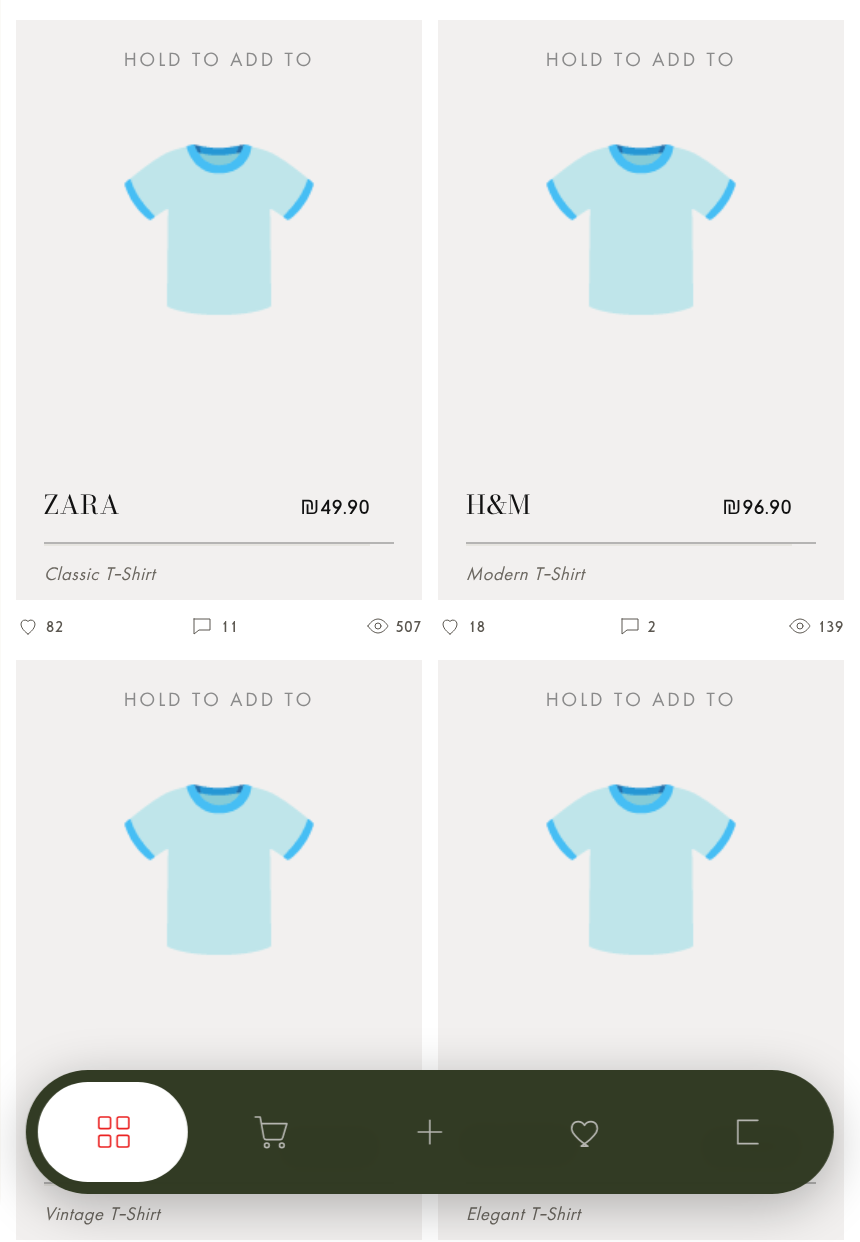
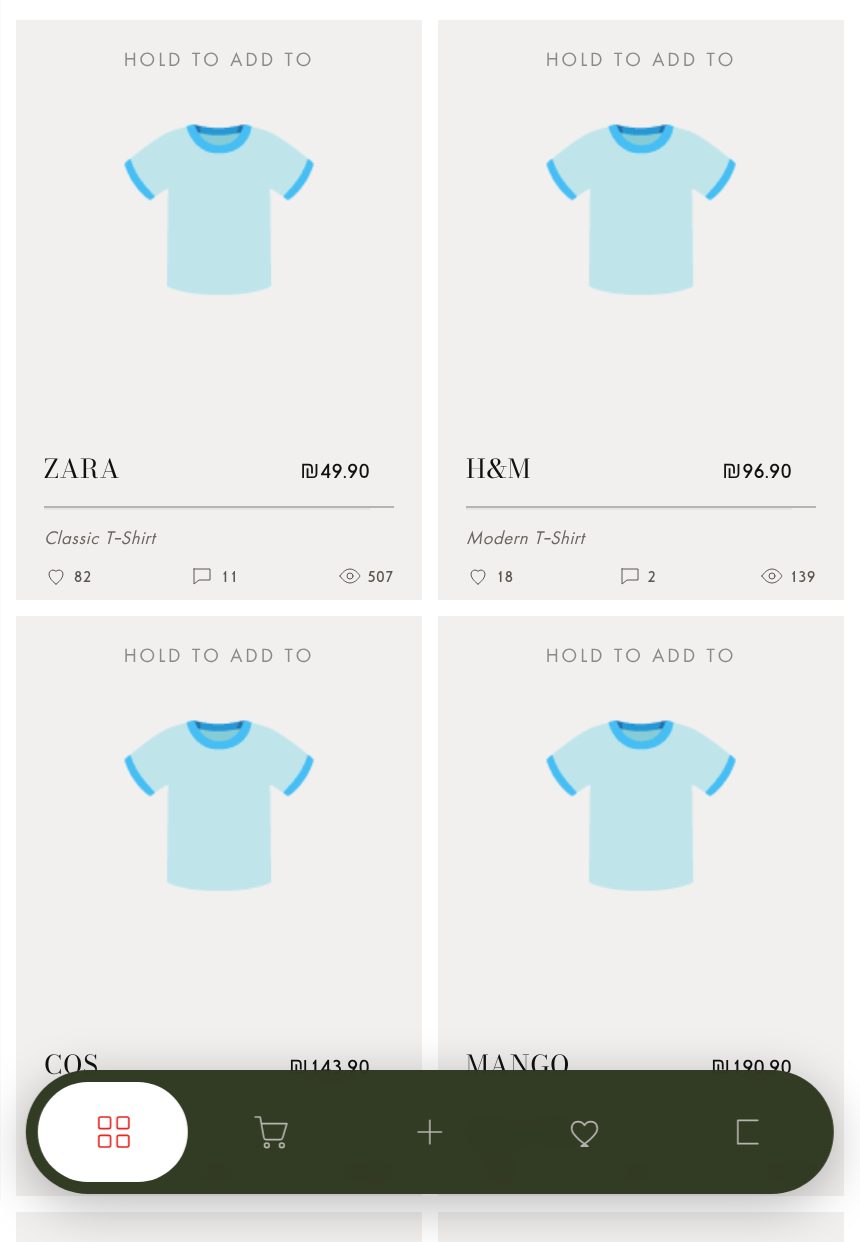
Product cards: stats row back inside the card, spread across the copy width
Claude-Session: https://claude.ai/code/session_011eJFT5j73mRgnWhpcGvqfp

diff --git a/pc-social.js b/pc-social.js
@@ -77,21 +77,18 @@
     // The row's own styles travel with the script: if a browser holds an older
     // product-card.css, the row still renders right (never as bare black icons).
     //
-    // The row sits OUTSIDE the card, under it (option 2, "spread"): it hangs
-    // from the copy block (top: 100%) across the card's full width, its three
-    // marks flush with the card's two edges. The card stops clipping so the row
-    // can show below it, and keeps a bottom margin so the grid leaves room.
+    // The row sits inside the card, on the copy template's fourth row under the
+    // name, "spread": the three marks run across the copy's width, the first
+    // and last flush with the two ends of the hairline rule. The piece's field
+    // gives up one row of height for it.
     var CSS = [
-        '.product-card:has(.pc-stats),',
-        '.product-card:has(.pc-stats) .pc-flip,',
-        '.product-card:has(.pc-stats) .pc-face { overflow: visible !important; }',
-        '.product-card:has(.pc-stats) { margin-bottom: 22px; }',
+        '.product-card { --pc-stats-h: 20px; }',
+        '.product-card:has(.pc-stats) .product-image {',
+        '    inset: 0 0 calc(var(--foot-h) + var(--pc-stats-h)) 0;',
+        '}',
         '.product-card .product-info .pc-stats {',
-        '    position: absolute;',
-        '    top: 100%;',
-        '    left: 0;',
-        '    right: 0;',
-        '    margin: 7px 0 0;',
+        '    grid-area: 4 / 1 / 5 / -1;',
+        '    margin: 6px 0 0;',
         '    padding: 0;',
         '    display: flex;',
         '    justify-content: space-between;',

diff --git a/seller-dashboard.html b/seller-dashboard.html
@@ -471,7 +471,7 @@ h3, h4, h5, h6, p,
 <style id="aharoni-headings">h1:not(#zz):not(#zz):not(#zz),h2:not(#zz):not(#zz):not(#zz),h3:not(#zz):not(#zz):not(#zz),h4:not(#zz):not(#zz):not(#zz),h5:not(#zz):not(#zz):not(#zz),h6:not(#zz):not(#zz):not(#zz),[class*="title"]:not(#zz):not(#zz):not(#zz),[class*="Title"]:not(#zz):not(#zz):not(#zz),[class*="heading"]:not(#zz):not(#zz):not(#zz),[class*="Heading"]:not(#zz):not(#zz):not(#zz),[class*="headline"]:not(#zz):not(#zz):not(#zz),[class*="Headline"]:not(#zz):not(#zz):not(#zz){font-family:'Aharoni CLM','Segoe UI',sans-serif !important;}</style>
 <style id="scal-bodoni">.scal-month:not(#zz):not(#zz):not(#zz),.scal-day:not(#zz):not(#zz):not(#zz),.scd-val:not(#zz):not(#zz):not(#zz){font-family:'Bodoni Moda','Didot',Georgia,serif !important;text-transform:none !important;}</style>
 <link rel="stylesheet" href="product-card.css?v=2">
-<script src="pc-social.js?v=3"></script>
+<script src="pc-social.js?v=4"></script>
     <link rel="stylesheet" href="assets/page-header.css?v=20261003e">
     <script src="assets/page-header.js?v=20261011e"></script>
     <!-- Every time-series graph: one edge-to-edge line chart (assets/line-chart.*). -->

diff --git a/cart-store.html b/cart-store.html
@@ -9,7 +9,7 @@
     <link href="https://fonts.googleapis.com/css2?family=Bodoni+Moda:opsz,wght@6..96,400;6..96,500;6..96,600;6..96,700&family=Poppins:wght@200;300;400;500;600&family=Oswald:wght@300;400;500;700&display=swap" rel="stylesheet">
     <!-- The product card, shared by every page (single source: product-card.css). -->
     <link rel="stylesheet" href="product-card.css?v=2">
-    <script src="pc-social.js?v=3"></script>
+    <script src="pc-social.js?v=4"></script>
     <link rel="stylesheet" href="assets/fonts/aharoni.css">
     <!-- Page styles, shared by cart-store / cart / wishlist (single source: list-page.css). -->
     <link rel="stylesheet" href="list-page.css?v=20261005u">

diff --git a/cart.html b/cart.html
@@ -9,7 +9,7 @@
     <link href="https://fonts.googleapis.com/css2?family=Bodoni+Moda:opsz,wght@6..96,400;6..96,500;6..96,600;6..96,700&family=Poppins:wght@200;300;400;500;600&family=Oswald:wght@300;400;500;700&display=swap" rel="stylesheet">
     <!-- The product card, shared by every page (single source: product-card.css). -->
     <link rel="stylesheet" href="product-card.css?v=2">
-    <script src="pc-social.js?v=3"></script>
+    <script src="pc-social.js?v=4"></script>
     <link rel="stylesheet" href="assets/fonts/aharoni.css">
     <!-- Page styles, shared by cart-store / cart / wishlist (single source: list-page.css). -->
     <link rel="stylesheet" href="list-page.css?v=20261005u">

diff --git a/wishlist.html b/wishlist.html
@@ -9,7 +9,7 @@
     <link href="https://fonts.googleapis.com/css2?family=Bodoni+Moda:opsz,wght@6..96,400;6..96,500;6..96,600;6..96,700&family=Poppins:wght@200;300;400;500;600&family=Oswald:wght@300;400;500;700&display=swap" rel="stylesheet">
     <!-- The product card, shared by every page (single source: product-card.css). -->
     <link rel="stylesheet" href="product-card.css?v=2">
-    <script src="pc-social.js?v=3"></script>
+    <script src="pc-social.js?v=4"></script>
     <link rel="stylesheet" href="assets/fonts/aharoni.css">
     <!-- Page styles, shared by cart-store / cart / wishlist (single source: list-page.css). -->
     <link rel="stylesheet" href="list-page.css?v=20261005u">

diff --git a/my-products.html b/my-products.html
@@ -18,7 +18,7 @@
     <link href="https://fonts.googleapis.com/css2?family=Bodoni+Moda:opsz,wght@6..96,400;6..96,500;6..96,600;6..96,700&family=Poppins:wght@200;300;400;500;600&family=Oswald:wght@300;400;500&display=swap" rel="stylesheet">
     <!-- The shared product card — the same object the home feed uses. -->
     <link rel="stylesheet" href="product-card.css?v=2">
-    <script src="pc-social.js?v=3"></script>
+    <script src="pc-social.js?v=4"></script>
     <link rel="stylesheet" href="assets/fonts/aharoni.css">
     <style>
         * { margin: 0; padding: 0; box-sizing: border-box; }

diff --git a/index.html b/index.html
@@ -6771,7 +6771,7 @@
     <script src="photo-guide.js"></script>
     <!-- The product card, shared by every page (single source: product-card.css). -->
     <link rel="stylesheet" href="product-card.css?v=2">
-    <script src="pc-social.js?v=3"></script>
+    <script src="pc-social.js?v=4"></script>
     <!-- ==================== HOME FEED — FIGMA LAYOUT ====================
          The home feed's sections (built into index.html's markup and filled by
          renderVeroFeatures): five featured picks, a full-width hero band, a

diff --git a/collection.html b/collection.html
@@ -54,7 +54,7 @@
         .sale-slider > .product-card { flex: 0 0 clamp(200px, 62vw, 250px); scroll-snap-align: start; }
     </style>
     <link rel="stylesheet" href="product-card.css?v=2">
-    <script src="pc-social.js?v=3"></script>
+    <script src="pc-social.js?v=4"></script>
     <link rel="stylesheet" href="feed-card.css">
     <link rel="stylesheet" href="assets/fonts/aharoni.css">
     <script src="assets/back-button.js"></script>

diff --git a/interiors.html b/interiors.html
@@ -460,7 +460,7 @@
     </style>
     <!-- The product card, shared by every page (single source: product-card.css). -->
     <link rel="stylesheet" href="product-card.css?v=2">
-    <script src="pc-social.js?v=3"></script>
+    <script src="pc-social.js?v=4"></script>
     <link rel="stylesheet" href="feed-card.css">
     <link rel="stylesheet" href="assets/fonts/aharoni.css">
     <script src="assets/back-button.js"></script>

diff --git a/sales.html b/sales.html
@@ -459,7 +459,7 @@
     </style>
     <!-- The product card, shared by every page (single source: product-card.css). -->
     <link rel="stylesheet" href="product-card.css?v=2">
-    <script src="pc-social.js?v=3"></script>
+    <script src="pc-social.js?v=4"></script>
     <link rel="stylesheet" href="feed-card.css">
     <link rel="stylesheet" href="assets/fonts/aharoni.css">
     <script src="assets/back-button.js"></script>

diff --git a/products.html b/products.html
@@ -335,7 +335,7 @@
     </style>
     <!-- The shared product card, so drafts render as the same object as the feed. -->
     <link rel="stylesheet" href="product-card.css?v=2">
-    <script src="pc-social.js?v=3"></script>
+    <script src="pc-social.js?v=4"></script>
     <link rel="stylesheet" href="assets/fonts/aharoni.css">
     <script src="assets/back-button.js"></script>
     <script src="assets/footer.js"></script>

diff --git a/saved.html b/saved.html
@@ -110,7 +110,7 @@
     </style>
     <!-- The product card, shared by every page (single source: product-card.css). -->
     <link rel="stylesheet" href="product-card.css?v=2">
-    <script src="pc-social.js?v=3"></script>
+    <script src="pc-social.js?v=4"></script>
     <link rel="stylesheet" href="assets/fonts/aharoni.css">
     <script src="assets/back-button.js"></script>
     <script src="assets/footer.js"></script>
